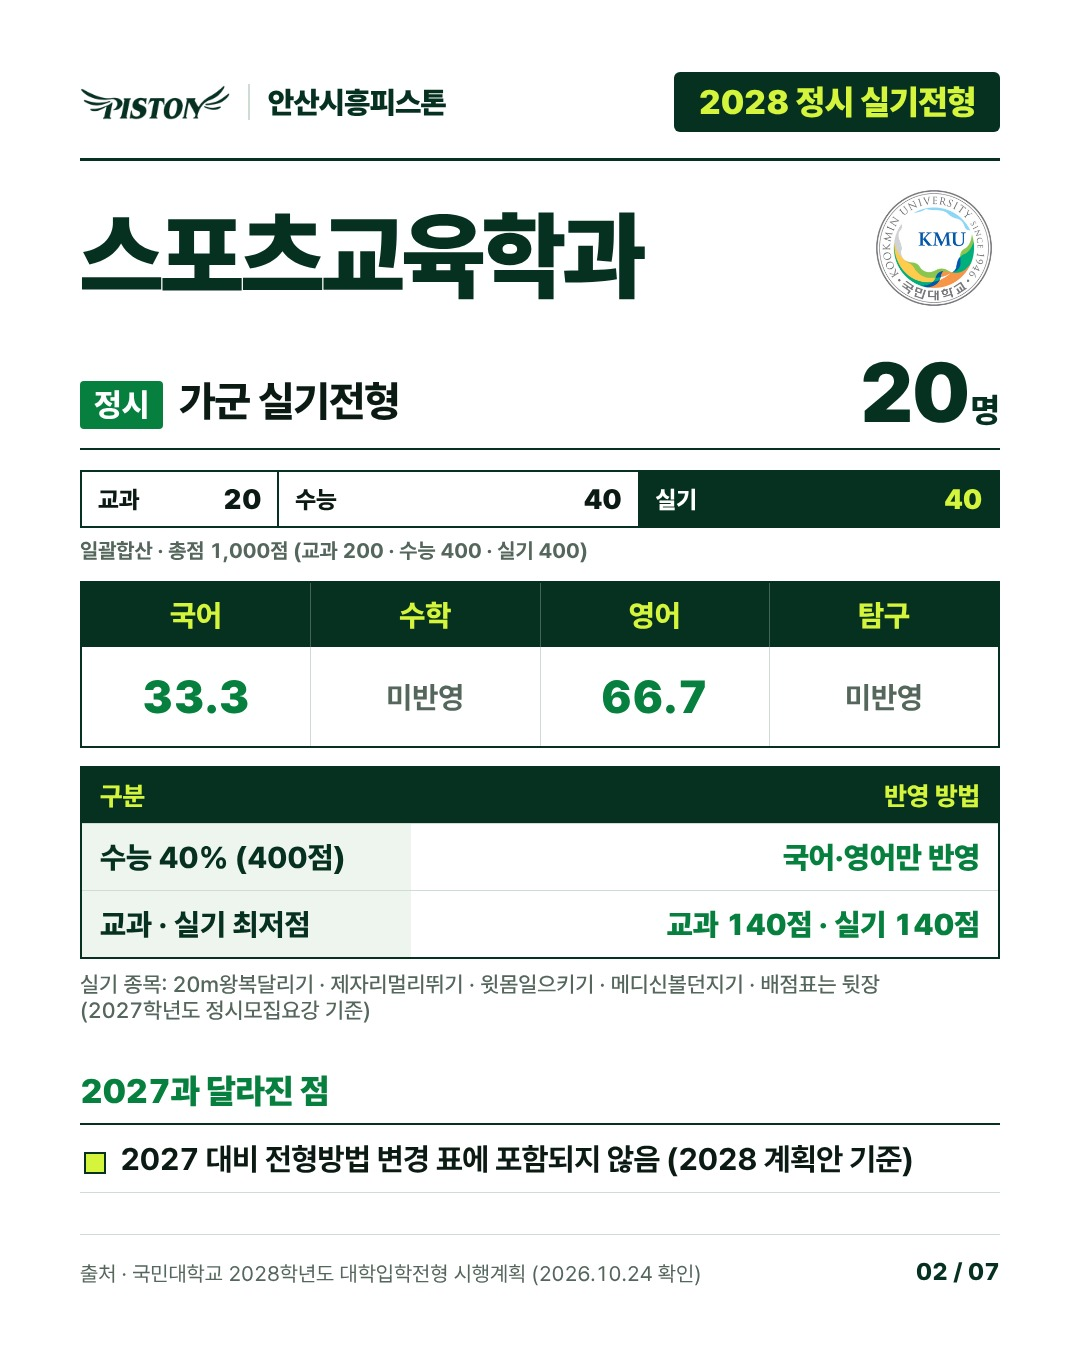
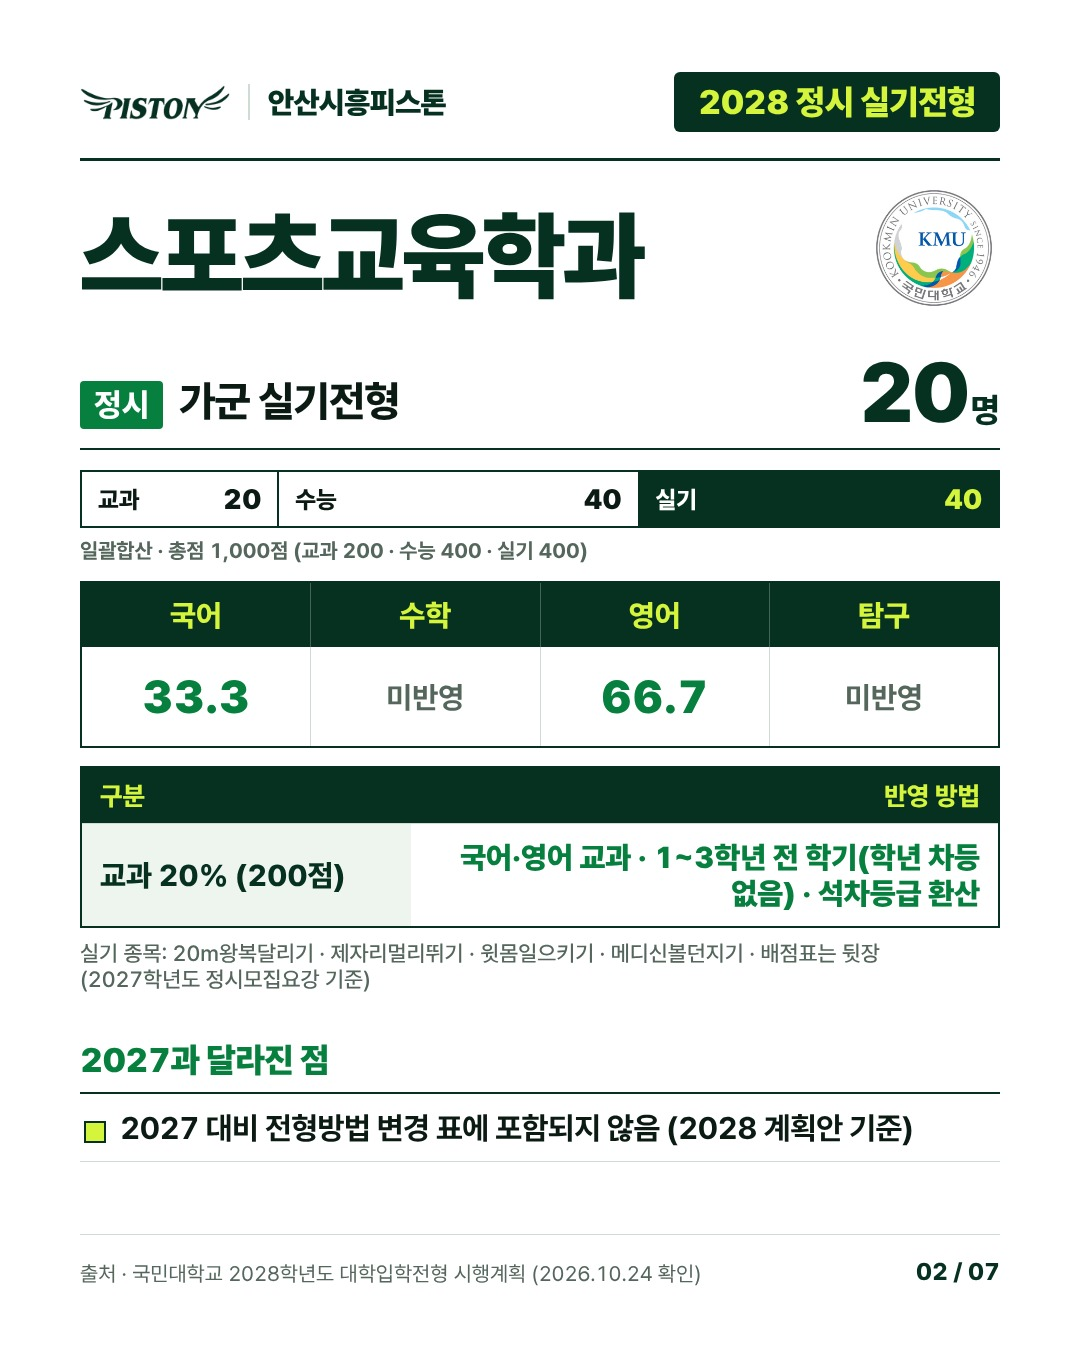
국민대 정시: 탐구 과목수·교과 반영 표기
Claude-Session: https://claude.ai/code/session_01EGTn7G8nWP1yv5M2jqmoFb

Changed region(s): [[0.0611, 0.6222, 0.9167, 0.8711], [0.4278, 0.6222, 0.5806, 0.6533]]

diff --git a/social/WORKFLOW.md b/social/WORKFLOW.md
@@ -31,3 +31,4 @@
 - 로고: 사용자가 준 교표 이미지 우선(원형 인장은 링 포함 전체). 없으면 만들기 전에 사용자에게 요청(반복 시도 금지).
 - 캡션·Metricool: 캡션 파일을 한 번만 읽어 그대로 사용. 예약 응답 전문을 다시 출력하지 않는다.
 - 보고: 중간 보고 최소화, 최종에 예약 목록·미완료 목록만.
+- 학과 슬라이드 수능 반영: sn(국어·수학·영어·탐구 비율 표) 사용, '최저점'은 넣지 않는다.
